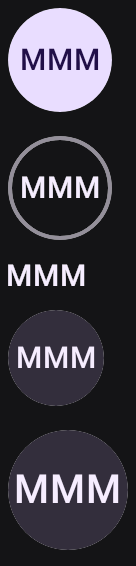
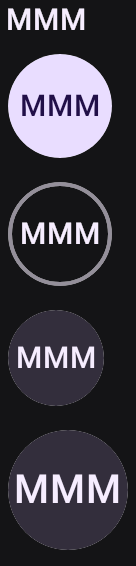
fix(remote-m3): don't grow a round text button's label on tap
Review caught that the fix was only half a fix. The round text buttons carry the
kit's `MMM` — a run of its widest glyph, which is how the kit sizes a round
container — so the label is already the width of the circle, and `countedRemote`
appends a tally to the visible label: `MMM (1)` on the first tap, drawing the
counter straight through the edge. The resting capture looked right and one
interaction put the overflow back, on a sheet whose whole point is that the
stickers are live.

They take `toggledRemote` instead — the size-preserving affordance the icon button
already used for exactly this reason, a container-colour tween that says the tap
landed without touching the metrics. Its KDoc no longer claims to be for "the one
sticker with no label to count into" and says which two kinds need it and why.

`InteractiveActionCaptureTest` gains a test that their documents encode no counter
around the glyph run, so the absence from `countedStickers` reads as a decision
rather than an oversight.

Changed region(s): [[0.0588, 0.0, 0.8235, 0.5106]]

diff --git a/samples/design-catalog-remote-m3/src/main/kotlin/com/example/designcatalogremotem3/CatalogPreviews.kt b/samples/design-catalog-remote-m3/src/main/kotlin/com/example/designcatalogremotem3/CatalogPreviews.kt
@@ -58,6 +58,7 @@ import androidx.wear.compose.remote.material3.RemoteMaterialTheme
 import androidx.wear.compose.remote.material3.RemoteOutlinedCard
 import androidx.wear.compose.remote.material3.RemoteText
 import androidx.wear.compose.remote.material3.RemoteTextButton
+import androidx.wear.compose.remote.material3.RemoteTextButtonDefaults
 import androidx.wear.compose.remote.material3.RemoteTitleCard
 import androidx.wear.compose.remote.material3.buttonSizeModifier
 import ee.schimke.composeai.daemon.rememberOverridableRemoteColor
@@ -124,9 +125,16 @@ internal fun countedRemote(base: RemoteString): Pair<RemoteString, Action> {
 }
 
 /**
- * The fallback for the one sticker with no label at all to count into: the icon button. Returns a
- * 0→1 [RemoteFloat] and the [Action] that flips it, so the caller can [tween] a colour across it.
- * Everything else on the sheet takes the default [countedRemote] tally.
+ * The size-preserving affordance, for a sticker whose label has no room to grow. Returns a 0→1
+ * [RemoteFloat] and the [Action] that flips it, so the caller can [tween] a colour across it.
+ *
+ * Two kinds of sticker need it. The icon button has no label at all to count into. The **round**
+ * text buttons have one that is already the width of their circle: the kit sizes that container
+ * with `MMM`, a run of its widest glyph, and [countedRemote] would grow that to `MMM (1)` on the
+ * first tap — drawing the tally straight through the edge, which is the very thing quoting the kit
+ * fixed in the resting state. A colour tween says "that tap landed" without touching the metrics.
+ *
+ * Everything with a pill or a card to grow into takes the default [countedRemote] tally.
  *
  * At rest the float is `0f`, and `tween(a, b, 0f)` is `a` — so the baked capture keeps the stock
  * colours and only a live tap moves it.
@@ -256,8 +264,17 @@ fun NamedLabelRemoteButton() = RemoteSticker {
 fun TextRemoteButton() = RemoteSticker {
   // The kit's glyph run, not `PRIMARY_LABEL`: this container is a circle, and a two-word label is
   // drawn straight through its edge. `wear-m3-catalog`'s `TextButton` quotes the same constant.
-  val (label, onClick) = countedRemote(KitCopy.GLYPHS)
-  RemoteTextButton(onClick = onClick, content = { RemoteText(label) })
+  // `toggledRemote` rather than `countedRemote` for that same reason — see its KDoc.
+  val (on, onClick) = toggledRemote()
+  val stock = RemoteTextButtonDefaults.textButtonColors()
+  RemoteTextButton(
+    onClick = onClick,
+    colors =
+      RemoteTextButtonDefaults.textButtonColors(
+        containerColor = tween(stock.containerColor, RemoteMaterialTheme.colorScheme.primary, on)
+      ),
+    content = { RemoteText(KitCopy.GLYPHS.rs) },
+  )
 }
 
 // A round icon button (`RemoteIconButton`) carrying a single `RemoteIcon`. Inside the

diff --git a/samples/design-catalog-remote-m3/src/main/kotlin/com/example/designcatalogremotem3/ComponentVariantPreviews.kt b/samples/design-catalog-remote-m3/src/main/kotlin/com/example/designcatalogremotem3/ComponentVariantPreviews.kt
@@ -265,43 +265,60 @@ private fun SizedTextButton(
   style: androidx.compose.remote.creation.compose.text.RemoteTextStyle,
   label: String,
 ) {
-  val (text, onClick) = countedRemote(label)
+  val (on, onClick) = toggledRemote()
   RemoteTextButton(
     onClick = onClick,
     modifier = RemoteModifier.size(size),
     colors =
       RemoteTextButtonDefaults.textButtonColors(
-        containerColor = RemoteMaterialTheme.colorScheme.surfaceContainer,
+        containerColor =
+          tween(
+            RemoteMaterialTheme.colorScheme.surfaceContainer,
+            RemoteMaterialTheme.colorScheme.primary,
+            on,
+          ),
         contentColor = RemoteMaterialTheme.colorScheme.onSurface,
       ),
-    content = { RemoteText(text, style = style) },
+    content = { RemoteText(label.rs, style = style) },
   )
 }
 
 @CatalogRemoteModes
 @Composable
 fun FilledRemoteTextButton() = RemoteSticker {
-  val (label, onClick) = countedRemote(KitCopy.GLYPHS)
+  // A colour tween rather than a click tally: `MMM` already fills this circle, so a counter would
+  // draw `MMM (1)` through its edge. See `toggledRemote`.
+  val (on, onClick) = toggledRemote()
   RemoteTextButton(
     onClick = onClick,
     colors =
       RemoteTextButtonDefaults.textButtonColors(
-        containerColor = RemoteMaterialTheme.colorScheme.primary,
+        containerColor =
+          tween(
+            RemoteMaterialTheme.colorScheme.primary,
+            RemoteMaterialTheme.colorScheme.primaryDim,
+            on,
+          ),
         contentColor = RemoteMaterialTheme.colorScheme.onPrimary,
       ),
-    content = { RemoteText(label) },
+    content = { RemoteText(KitCopy.GLYPHS.rs) },
   )
 }
 
 @CatalogRemoteModes
 @Composable
 fun OutlinedRemoteTextButton() = RemoteSticker {
-  val (label, onClick) = countedRemote(KitCopy.GLYPHS)
+  val (on, onClick) = toggledRemote()
+  val stock = RemoteTextButtonDefaults.textButtonColors()
   RemoteTextButton(
     onClick = onClick,
     border = 2.rdp,
     borderColor = RemoteMaterialTheme.colorScheme.outline,
-    content = { RemoteText(label) },
+    colors =
+      RemoteTextButtonDefaults.textButtonColors(
+        containerColor = tween(stock.containerColor, RemoteMaterialTheme.colorScheme.primary, on)
+      ),
+    content = { RemoteText(KitCopy.GLYPHS.rs) },
   )
 }
 

diff --git a/samples/design-catalog-remote-m3/src/test/kotlin/com/example/designcatalogremotem3/InteractiveActionCaptureTest.kt b/samples/design-catalog-remote-m3/src/test/kotlin/com/example/designcatalogremotem3/InteractiveActionCaptureTest.kt
@@ -44,13 +44,6 @@ class InteractiveActionCaptureTest {
       "IconLabelSecondaryRemoteButton" to KitCopy.PRIMARY_LABEL,
       "CompactRemoteButton" to KitCopy.PRIMARY_LABEL,
       "CompactIconLabelRemoteButton" to KitCopy.PRIMARY_LABEL,
-      // The ROUND text buttons take the kit's glyph run instead: a two-word label is drawn through
-      // the edge of a circle, which is what `PRIMARY_LABEL` here produced before it was caught.
-      "TextRemoteButton" to KitCopy.GLYPHS,
-      "SmallRemoteTextButton" to KitCopy.GLYPHS,
-      "LargeRemoteTextButton" to KitCopy.GLYPHS,
-      "FilledRemoteTextButton" to KitCopy.GLYPHS,
-      "OutlinedRemoteTextButton" to KitCopy.GLYPHS,
       // Cards quote the kit's card slots.
       "CardRemote" to KitCopy.CARD_CONTENT,
       "OutlinedCardRemote" to KitCopy.CARD_CONTENT,
@@ -60,6 +53,35 @@ class InteractiveActionCaptureTest {
       "TimeContentRemoteTitleCard" to KitCopy.CARD_TITLE,
       "TimeRemoteAppCard" to KitCopy.CARD_TITLE,
     )
+
+  /**
+   * The round text buttons, which deliberately do NOT appear in [countedStickers].
+   *
+   * They carry the kit's `MMM` — a run of its widest glyph, which is how the kit sizes a round
+   * container — so the label is already the width of the circle and `countedRemote` would grow it
+   * to `MMM (1)` on the first tap, drawing the tally through the edge. They use `toggledRemote`
+   * instead: a colour tween that says the tap landed without touching the metrics. Asserted so the
+   * absence reads as a decision rather than an oversight.
+   */
+  private val toggledStickers =
+    listOf(
+      "TextRemoteButton",
+      "SmallRemoteTextButton",
+      "LargeRemoteTextButton",
+      "FilledRemoteTextButton",
+      "OutlinedRemoteTextButton",
+    )
+
+  @Test
+  fun `no round text button grows its label on tap`() {
+    for (stem in toggledStickers) {
+      val text = documentText(stem)
+      assertWithMessage("$stem still encodes a click counter into its label")
+        .that(text)
+        .doesNotContain("${KitCopy.GLYPHS} (")
+      assertWithMessage("$stem lost its kit glyph run").that(text).contains(KitCopy.GLYPHS)
+    }
+  }
 
   /**
    * The fragments `countedRemote` concatenates around the counter (`"<base> (" + n + ")"`). They

diff --git a/renders/remote-m3-kit-copy/README.md b/renders/remote-m3-kit-copy/README.md
@@ -55,6 +55,14 @@ same constant, so these now do too, and their `parallel` moved from the pill but
 
 ![The same five buttons with "MMM" inside their circles](round-text-button-fixed.png)
 
+**And the tapped state, which the resting render does not show.** `countedRemote` appends a tally to
+the visible label — `MMM` becomes `MMM (1)` on the first tap — so a fix that only looked at the
+baked capture would have left the overflow intact one interaction away, on a sheet whose whole point
+is that the stickers are live. These five now use `toggledRemote`, the size-preserving affordance the
+icon button already used for the same reason: a container-colour tween that says the tap landed
+without touching the metrics. `InteractiveActionCaptureTest` asserts their documents encode no
+counter, so the absence reads as a decision rather than an oversight.
+
 **An ellipsis sticker with no ellipsis.** `TruncatedTextRemote` exists to carry the
 `maxLines` + `overflow` product. `BODY` fits inside two lines at its width, so quoting it published
 a truncation sticker that did not truncate. It quotes `CARD_CONTENT` instead — still the kit's own
